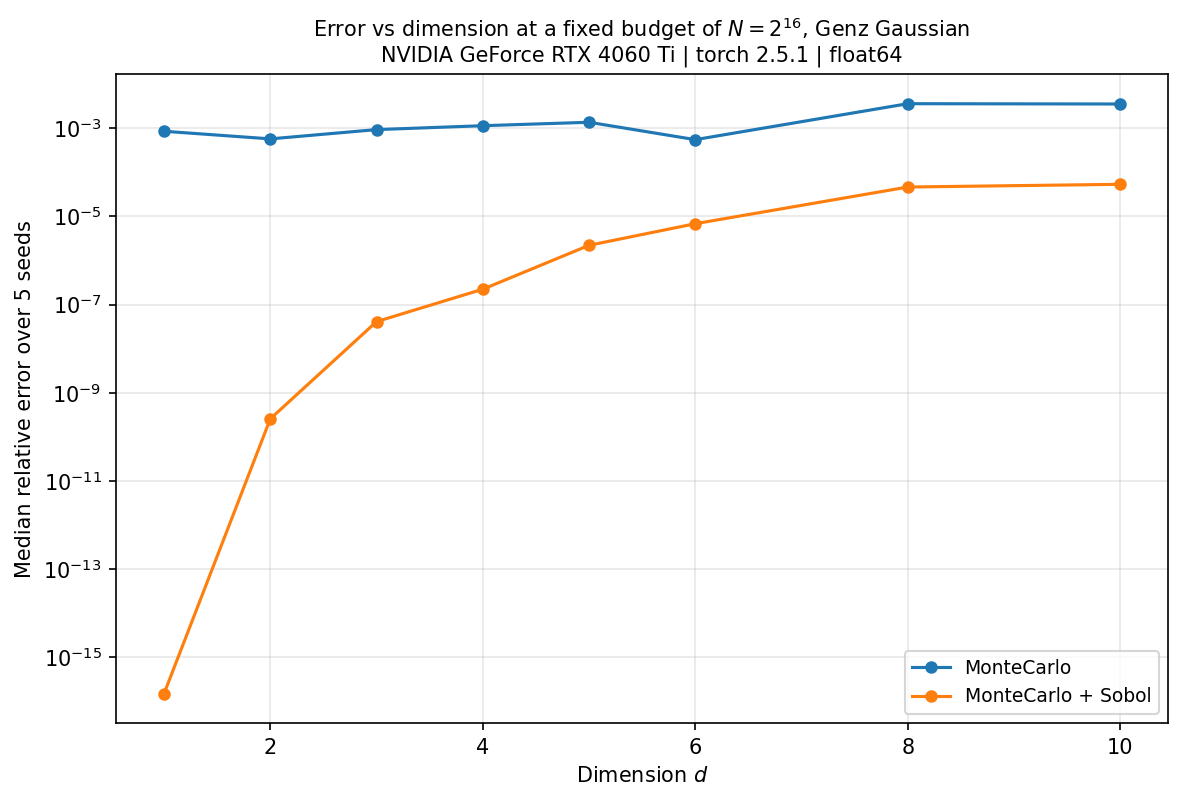
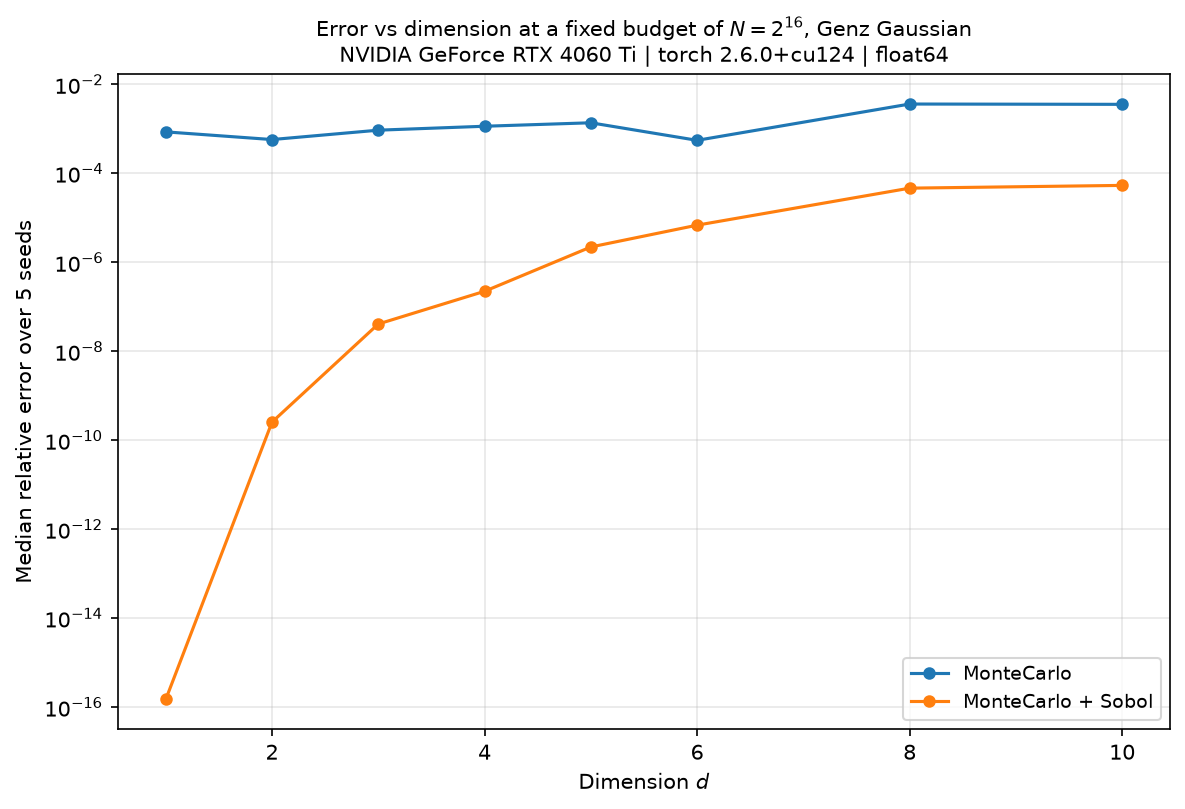
docs(readme): rebuild the performance section on the regenerated figures
Every figure is remeasured on one machine, in one session, after the GPU timing
fix, so the numbers are comparable to each other for the first time. The four
accuracy figures are new; the framework, scaling and vectorized ones are
regenerated.

The framework comparison now has a genuine TensorFlow-GPU series. Previously TF
and PyTorch shared an environment, which left TF silently on the CPU -- the tell
was tensorflow_gpu and tensorflow_cpu reporting errors identical to sixteen
digits. Run under separate interpreters they differ, and TF on the GPU is 9x
faster than TF on the CPU.

Two claims are corrected rather than restated. The vectorization figure quoted
"about 190x", measured on Windows; the same benchmark on Linux gives 112.7x,
because the batched side is only 1-2 ms and sits near the measurement floor. The
caption now gives the shape -- roughly linear in the number of integrands -- and
says the peak is platform-dependent. That caption reached develop through the
stacked plots PR after being reverted from the timing one.

The comparison against scipy.integrate.nquad and its claim of a broad efficiency
win are dropped. Since SciPy 1.15, scipy.integrate.cubature reaches machine
precision on a smooth 3-D integrand in milliseconds and a few tens of thousands
of evaluations, which beats a fixed-budget method outright; a reader who checks
would find the claim false. The section now concedes that case and states where
[…]

diff --git a/README.md b/README.md
@@ -277,60 +277,87 @@ See the [open issues](https://github.com/esa/torchquad/issues) for a list of pro
 <!-- PERFORMANCE -->
 ## Performance
 
-Using GPUs, torchquad scales particularly well with integration methods that offer easy parallelization. The benchmarks below demonstrate performance across challenging functions from 1D to 15D, comparing torchquad's GPU-accelerated methods against scipy's CPU implementations.
+All figures below were measured on an RTX 4060 Ti / i5-13400F. Accuracy is
+measured against closed-form integrals from the
+[Genz test-function family](benchmarking/genz_functions.py) in float64; runtimes
+are float32 and synchronize the GPU before the clock stops.
 
-<!-- TODO Update plot links -->
-### Convergence Analysis
-![](https://github.com/esa/torchquad/blob/main/resources/torchquad_convergence.png?raw=true)
-*Convergence comparison across challenging test functions from 1D to 15D. GPU-accelerated torchquad methods demonstrate great performance, particularly for high-dimensional integration where scipy's nquad becomes computationally infeasible. Beyond 1D, torchquad significantly outperforms scipy in efficiency.*
+### Convergence
+![](https://github.com/esa/torchquad/blob/main/resources/torchquad_convergence_3d.png?raw=true)
+*Relative error against the number of function evaluations, 3D, on the Genz oscillatory integrand. The higher-order Newton-Cotes rules separate cleanly — Trapezoid reaches 7.7e-04, Simpson 1.6e-07, Boole 2.4e-10 — and Gauss-Legendre hits double precision within a few hundred points. This is the plot to read first: it says what accuracy a given budget buys you.*
 
-### Runtime vs Error Efficiency  
-![](https://github.com/esa/torchquad/blob/main/resources/torchquad_runtime_vs_error.png?raw=true)
-*Runtime-error trade-offs across dimensions. Lower-left positions indicate better performance. While scipy's traditional methods are competitive for simple 1D problems, torchquad's GPU acceleration provides orders of magnitude better performance for multi-dimensional integration, achieving both faster computation and lower errors.*
+### Quasi-Monte Carlo vs Monte Carlo
+![](https://github.com/esa/torchquad/blob/main/resources/torchquad_qmc_vs_mc_3d.png?raw=true)
+*Passing `rng=Sobol(...)` to `MonteCarlo` replaces pseudo-random points with a low-discrepancy sequence. On a non-separable integrand this is worth five to six orders of magnitude — 2.8e-09 against 1.0e-03 at the same budget — and converges faster than O(N⁻¹) where plain Monte Carlo tracks O(N⁻¹ᐟ²). Errors are the median over five seeds.*
 
-### Scaling Performance
-![](https://github.com/esa/torchquad/blob/main/resources/torchquad_scaling_analysis.png?raw=true)
-*Scaling investigation across problem sizes and dimensions of the different methods in torchquad.*
+### Scaling with dimension
+![](https://github.com/esa/torchquad/blob/main/resources/torchquad_dimension_scaling.png?raw=true)
+*Error at a fixed budget of N=2¹⁶ as the dimension grows, with per-dimension difficulty held constant so the curve shows the cost of dimension rather than of a harder integrand. Plain Monte Carlo is famously dimension-insensitive and stays near 1e-03 throughout; the quasi-random advantage is largest in low dimensions and narrows as the dimension climbs, though at d=10 Sobol is still around 5e-05 against 3.6e-03.*
 
-### Vectorized Integration Speedup
-![](https://github.com/esa/torchquad/blob/main/resources/torchquad_vectorized_speedup.png?raw=true)
-*Evaluating multiple integrands simultaneously is much faster than looping over them. The speedup grows roughly linearly with the number of integrands — about 190x at 200 of them on the reference GPU — because the loop pays a kernel launch per integrand while the batched call pays one. This makes torchquad well suited to parameter sweeps, uncertainty quantification, and machine learning applications requiring batch integration. Note: the figure itself predates a fix to the harness's GPU timing, which mismeasured the small-batch end, and will be regenerated.*
+### Runtime: CPU vs GPU
+![](https://github.com/esa/torchquad/blob/main/resources/torchquad_runtime_cpu_vs_gpu.png?raw=true)
+*Wall-clock time per integration, measured in separate processes because the backend's default device is global state. At N=1e8 the GPU is 33x faster for Monte Carlo and 13x for Simpson. The crossover is shown honestly rather than hidden: for Simpson the CPU is the faster choice below roughly 1e6 evaluations, where the problem is too small to cover kernel-launch overhead.*
 
-### Framework Comparison  
+### Framework comparison
 ![](https://github.com/esa/torchquad/blob/main/resources/torchquad_framework_comparison.png?raw=true)
-*Cross-framework performance comparison for 1D integration using Monte Carlo and Simpson methods. Demonstrates torchquad's consistent API across PyTorch, TensorFlow, JAX, and NumPy backends, with GPU acceleration providing significant performance advantages for large number of function evaluations. All frameworks achieve similar accuracy while showcasing the computational benefits of GPU acceleration for parallel integration methods.*
+*The same 1D integration through each backend, run in isolated subprocesses. PyTorch and TensorFlow land within about 10% of each other on the GPU (66 ms and 73 ms at N=1e8 for Monte Carlo), and all backends reach comparable accuracy — which is the point of a single API across four numerical libraries.*
+
+### Vectorized integration
+![](https://github.com/esa/torchquad/blob/main/resources/torchquad_vectorized_speedup.png?raw=true)
+*Integrating many integrands in one batched call against looping over them one at a time. The speedup grows roughly linearly with the number of integrands, because the loop pays a kernel launch per integrand while the batched call pays one: about 16x at 20 integrands and 110x at 200 on this machine. The exact figure at the top end is platform-dependent — the batched side is only 1-2 ms, close to the measurement floor — so treat the shape rather than the peak number as the result.*
+
+### On comparisons with SciPy
+
+Earlier versions of this section compared torchquad against `scipy.integrate.nquad`
+and claimed a broad efficiency win. That comparison is not one we want to stand
+behind: since SciPy 1.15 there is `scipy.integrate.cubature`, an adaptive
+Genz-Malik rule that reaches machine precision on a smooth 3-D integrand in a few
+milliseconds and a few tens of thousands of evaluations — comfortably beating a
+fixed-budget method there. SciPy is the better tool for smooth, low-dimensional
+problems where you want near-exact answers.
+
+torchquad's case is different: many dimensions, moderate accuracy quickly, and —
+the part no SciPy comparison can capture — gradients, a GPU, and a choice of
+numerical backend.
 
 ### Running Benchmarks
 
 To reproduce these benchmarks or test performance on your hardware:
 
 ```bash
-# Run all benchmarks (convergence, framework comparison, scaling, vectorized)
-python benchmarking/modular_benchmark.py --dimensions 1,3,7,15
+# The accuracy figures: convergence, QMC vs MC, dimension scaling, CPU vs GPU
+python benchmarking/release_plots.py --plots all
+python benchmarking/release_plots.py --plots qmc,convergence   # or a subset
 
-# Run specific benchmark types
-python benchmarking/modular_benchmark.py --convergence-only --dimensions 1,3,7,15
+# The timing harness: scaling, framework comparison, vectorized
+python benchmarking/modular_benchmark.py --dimensions 1,3,7,15
 python benchmarking/modular_benchmark.py --scaling-only
 python benchmarking/modular_benchmark.py --framework-only
 
-# Generate all plots from results
+# Redraw the harness figures from the results of the run above
 python benchmarking/plot_results.py
 
 # Configure benchmark parameters
 # Edit benchmarking/benchmarking_cfg.toml to adjust:
 # - Evaluation point ranges
 # - Framework backends to test
-# - Timeout limits  
+# - Timeout limits
 # - Method selection
 # - scipy integration tolerances
 ```
 
-**New Features:**
-- **Analytic Reference Values**: Uses SymPy for exact analytic solutions where possible, providing highly accurate reference values for error calculations
-- **Enhanced Test Functions**: Analytically tractable but numerically challenging functions that better demonstrate convergence behavior
-- **Framework Comparison**: Cross-backend performance benchmarking across PyTorch, TensorFlow, JAX, and NumPy with GPU/CPU device comparisons
+Two notes if you re-measure:
 
-**Hardware:** RTX 4060 Ti 16GB, i5-13400F, Precision: float32
+- **Run the machine idle.** The harness synchronizes the device before stopping
+  its clock, so the numbers are real wall-clock time and will pick up anything
+  else competing for the GPU.
+- **TensorFlow and PyTorch cannot share one environment on the GPU.** They pin
+  conflicting versions of the bundled NVIDIA CUDA libraries, and whichever loses
+  falls back to the CPU silently, turning a GPU comparison into a CPU one. Give
+  each its own interpreter via the `[interpreters]` section of the config.
+
+**Hardware for the figures above:** RTX 4060 Ti 16GB, i5-13400F. Accuracy in
+float64, timings in float32.
 
 <!-- CONTRIBUTING -->
 ## Contributing

diff --git a/CHANGELOG.md b/CHANGELOG.md
@@ -33,6 +33,9 @@ packaging, and closing long-open fixed issues.
   dead-code job.
 - `.github/RELEASE_NOTES_TEMPLATE.md`, a release-notes skeleton with a
   contributor-thanks section, referenced from the release checklist.
+- New README performance figures: convergence (error vs N, all methods,
+  float64), quasi-Monte Carlo vs Monte Carlo, error vs dimension at a fixed
+  budget, and CPU-vs-GPU runtime.
 - Dependabot for GitHub Actions.
 - This `CHANGELOG.md`.
 
@@ -43,6 +46,11 @@ packaging, and closing long-open fixed issues.
   `uv` instead of conda/micromamba.
 - Install docs lead with pip/uv; dropped the deprecated `pytorch` conda channel;
   rebuilt `environment_all_backends.yml` on conda-forge.
+- The README performance section is rebuilt around the new figures, all
+  regenerated on one machine after the GPU timing fix. The claim of a broad
+  efficiency win over SciPy is gone: since SciPy 1.15 `scipy.integrate.cubature`
+  beats a fixed-budget method on smooth low-dimensional problems, and the
+  section now says so and states where torchquad's case actually lies.
 - `loguru` is disabled by default; `set_log_level` manages a single tracked sink
   instead of touching host-application handlers (#184).
 - `TORCHQUAD_LOG_LEVEL` now works. Setting it to a non-empty value enables
